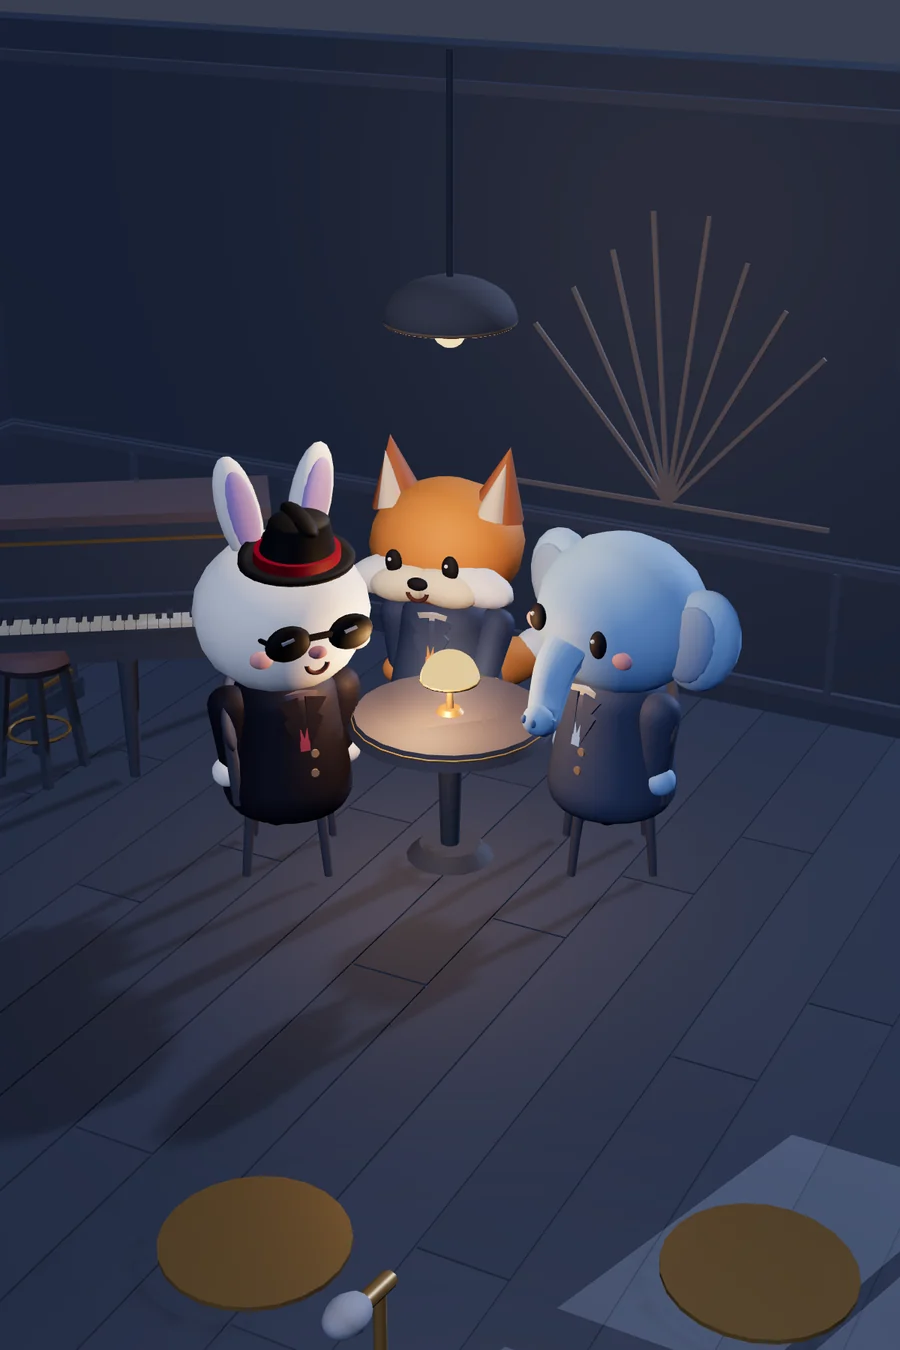
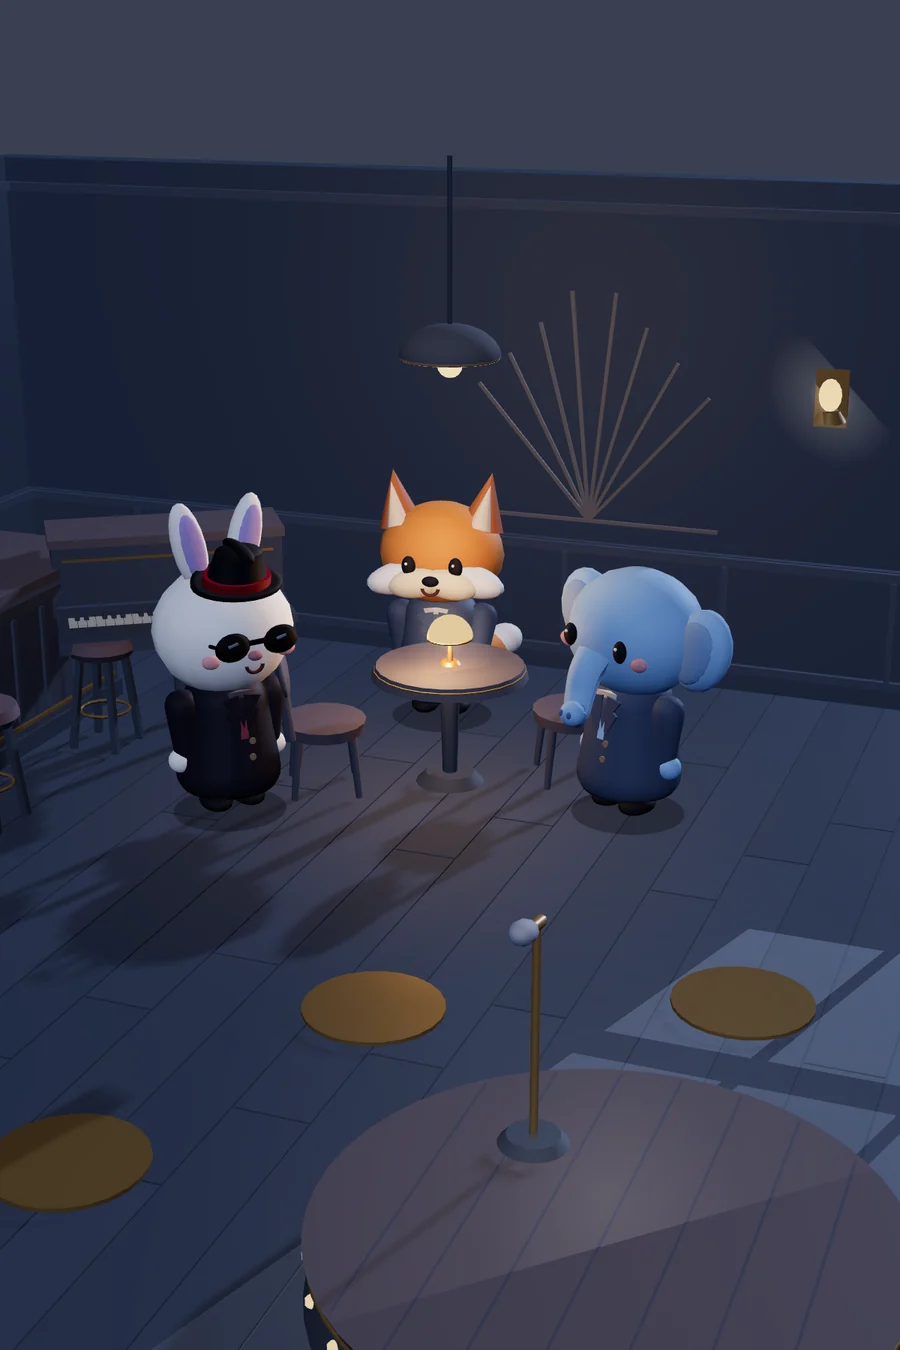
fix: 홈의 동물 배치와 제목 조판 개선

diff --git a/test/unit/assets.test.ts b/test/unit/assets.test.ts
@@ -13,6 +13,7 @@ import { preload } from "react-dom";
 import {
   FIGURE_IDS,
   ASSET_VERSION,
+  ENTRY_ART_VERSION,
   backdropUrl,
   duskPreloadList,
   entryPreloadList,
@@ -119,7 +120,7 @@ describe("그림 URL 헬퍼", () => {
     expect(backdropUrl("game", "day")).toBe(`/backgrounds/bg_game_day.webp?v=${ASSET_VERSION}`);
     expect(backdropUrl("game", "night")).toBe(`/backgrounds/bg_game_night.webp?v=${ASSET_VERSION}`);
     expect(backdropUrl("game", "verdictDusk")).toBe(`/backgrounds/bg_game_verdict_dusk.webp?v=${ASSET_VERSION}`);
-    expect(backdropUrl("entry", "lobby")).toBe(`/backgrounds/noir-entry.webp?v=${ASSET_VERSION}`);
+    expect(backdropUrl("entry", "lobby")).toBe(`/backgrounds/noir-entry.webp?v=${ENTRY_ART_VERSION}`);
   });
 
   it("배경: entry 구도는 lobby 장면만 받는다 (타입)", () => {
@@ -189,7 +190,7 @@ describe("일지 색 토큰 (UI-SPEC 새 토큰 12개)", () => {
 describe("미리 받기 목록", () => {
   it("입장 화면 목록: 입장·대기실 배경(WebP)", () => {
     const hrefs = entryPreloadList().map((item) => item.href);
-    expect(hrefs).toContain(`/backgrounds/noir-entry.webp?v=${ASSET_VERSION}`);
+    expect(hrefs).toContain(`/backgrounds/noir-entry.webp?v=${ENTRY_ART_VERSION}`);
     expect(hrefs).toContain(`/backgrounds/bg_game_lobby.webp?v=${ASSET_VERSION}`);
     expect(hrefs.some((h) => h.endsWith(".svg"))).toBe(false);
     expect(hrefs).toHaveLength(2);
@@ -304,9 +305,10 @@ describe("실제 파일과의 일치", () => {
   it("홈 아이콘과 공유 그림도 최신 그림 캐시 버전을 쓴다", () => {
     expect(ASSET_VERSION).not.toBe("noir-2");
     const html = readFileSync("index.html", "utf8");
-    for (const icon of ["favicon.svg", "favicon-32.png", "apple-touch-icon.png", "og.png"]) {
+    for (const icon of ["favicon.svg", "favicon-32.png", "apple-touch-icon.png"]) {
       expect(html).toContain(`/${icon}?v=${ASSET_VERSION}`);
     }
+    expect(html).toContain(`/og.png?v=${ENTRY_ART_VERSION}`);
   });
 
   it("어떤 URL 에도 @ 문자가 없다", () => {

diff --git a/src/styles/entry.css b/src/styles/entry.css
@@ -1,5 +1,13 @@
 /* 입장 무대는 제목과 입력 사이를 비워 테이블을 보여 준다.
    키보드를 열면 입력 패널만 보이는 높이에 맞춰 올라온다. */
+@font-face {
+  font-family: "Minifia Title";
+  src: url("/fonts/noto-serif-kr-home/minifia-title.woff2") format("woff2");
+  font-style: normal;
+  font-weight: 900;
+  font-display: swap;
+  unicode-range: U+B2C8, U+BBF8, U+C544, U+D53C;
+}
 .mf-entry-scene .mf-backdrop__art::after {
   content: "";
   position: absolute;
@@ -28,7 +36,32 @@
   text-shadow: 0 2px 16px rgb(4 10 19 / 50%);
 }
 .mf-entry-scene .mf-entry__head .mf-t-display::after { content: none; }
-.mf-entry-scene .mf-home .mf-t-display { font-size: clamp(48px, 14vw, 68px); }
+.mf-entry-scene .mf-home .mf-entry__head { gap: 6px; }
+.mf-entry-scene .mf-entry__head .mf-home__title {
+  font-family: "Minifia Title", var(--font-serif);
+  font-size: clamp(50px, 15vw, 72px);
+  font-weight: 900;
+  line-height: 1.08;
+  letter-spacing: -.045em;
+  text-shadow: 0 2px 0 rgb(4 10 19 / 70%), 0 6px 18px rgb(4 10 19 / 48%);
+}
+.mf-home__flourish {
+  position: relative;
+  width: 40px;
+  height: 6px;
+  color: var(--brass-200);
+  background: linear-gradient(90deg, currentColor, transparent 96%) center / 100% 1px no-repeat;
+}
+.mf-home__flourish::after {
+  content: "";
+  position: absolute;
+  top: 1px;
+  left: 33px;
+  width: 4px;
+  height: 4px;
+  background: currentColor;
+  transform: rotate(45deg);
+}
 .mf-entry__subtitle {
   margin: 0;
   font-size: 16px;

diff --git a/src/net/assets.ts b/src/net/assets.ts
@@ -30,6 +30,8 @@ export type PreloadItem = { href: string; imageSrcSet?: string };
  * (정적 그림 캐시가 max-age 1일이라 같은 주소는 하루 동안 옛 그림이 나온다). 그림을 바꾸면 값을 바꾼다.
  */
 export const ASSET_VERSION = "noir-11";
+/** 입장 배경은 캐릭터·맵 그림과 별도로 갱신한다. */
+export const ENTRY_ART_VERSION = "home-seats-1";
 
 // 파일 이름의 @ 는 URL 에서 %40 으로 쓴다.
 function png(dir: "table" | "roles" | "ghost", id: string, scale: 2 | 4): string {
@@ -121,7 +123,7 @@ export function journalArt(role: JournalRole, slot: JournalSlot): { src: string;
 export function backdropUrl(layout: "entry", scene: EntryScene): string;
 export function backdropUrl(layout: "game", scene: SceneId): string;
 export function backdropUrl(layout: BackdropLayout, scene: SceneId): string {
-  if (layout === "entry") return `/backgrounds/noir-entry.webp?v=${ASSET_VERSION}`;
+  if (layout === "entry") return `/backgrounds/noir-entry.webp?v=${ENTRY_ART_VERSION}`;
   return `/backgrounds/bg_${layout}_${SCENES[scene].file}.webp?v=${ASSET_VERSION}`;
 }
 

diff --git a/index.html b/index.html
@@ -12,7 +12,7 @@
     <meta property="og:title" content="미니피아" />
     <meta property="og:description" content="우리 중 누가 마피아일까? 친구들과 함께하는 추리 게임." />
     <meta property="og:type" content="website" />
-    <meta property="og:image" content="https://minifia-v3.dhplay.workers.dev/og.png?v=noir-11" />
+    <meta property="og:image" content="https://minifia-v3.dhplay.workers.dev/og.png?v=home-seats-1" />
     <meta property="og:image:width" content="1200" />
     <meta property="og:image:height" content="630" />
     <link rel="preconnect" href="https://fonts.googleapis.com" />

diff --git a/src/screens/Home.tsx b/src/screens/Home.tsx
@@ -145,7 +145,8 @@ export function Home({ onEnterRoom }: HomeProps) {
     <Backdrop layout="entry" scene="lobby">
       <main className="mf-root mf-entry mf-home" style={{ "--entry-height": `${viewportHeight}px` } as CSSProperties}>
         <header className="mf-entry__head">
-          <h1 className="mf-t-display">미니피아</h1>
+          <h1 className="mf-t-display mf-home__title">미니피아</h1>
+          <span className="mf-home__flourish" aria-hidden="true" />
           <p className="mf-entry__subtitle">우리 중 누가 마피아일까?</p>
         </header>
         <div className="mf-entry__actions">

diff --git a/docs/decisions/0100-home-art-and-discussion-controls.md b/docs/decisions/0100-home-art-and-discussion-controls.md
@@ -2,6 +2,8 @@
 
 첫 화면에서 본 인물을 대기실에서도 알아볼 수 있게 홈 배경에 실제 좌석 모델 세 명과 재즈 바를 사용한다. 카메라와 조명은 홈의 제목과 하단 입력 영역에 맞춰 배치한다. 렌더링은 그림을 만들 때 한 번 실행하고, 홈과 초대장은 정적 이미지를 읽는다.
 
+토끼와 코끼리는 테이블 옆 의자 바깥에 서서 발과 좌판의 윤곽이 따로 보인다. 홈 제목은 자체 호스팅한 명조 웹폰트로 조판하고, 제목과 부제 사이에 재즈 바 벽 장식을 닮은 얇은 황동색 선을 둔다. 홈과 초대 미리보기의 새 이미지는 별도 캐시 버전으로 읽는다.
+
 홈 테이블 왼쪽의 도윤과 마피아 의상 미리보기, 역할 카드에는 선글라스와 빨간 띠 중절모를 쓴 같은 인물을 사용한다. 어느 좌석에서 마피아 의상을 골라도 이 인물이 된다. 역할을 확인한 마피아는 자기 화면에서도 이 모습으로 플레이한다. 다른 참가자의 화면에는 각자가 고른 공개 의상만 보이고, 판이 끝나면 살아남은 마피아의 직업 의상을 모두에게 보여 준다.
 
 대기실 하단은 모든 참가자가 같은 위치에서 읽고 입력하는 채팅 전용 영역이다. 방장만 쓰는 시작 버튼은 채팅 위에 따로 배치한다. 참가자에게 별도 행동이 없는 대기 상태는 ‘대기실’ 제목으로 전달한다. [마피아 모델과 방장·참가자의 대기실 비교](../../design/v3.0/redesign/mafia-lobby.webp)

diff --git a/design/fonts/README.md b/design/fonts/README.md
@@ -1,4 +1,5 @@
 # 폰트
 
 - v3의 화면과 조작부는 기기의 시스템 산세리프를 쓴다. 종이 카드 등 인쇄물 표현에는 Gowun Batang을 사용한다.
+- 홈 제목은 [Noto Serif KR](https://fonts.google.com/noto/specimen/Noto+Serif+KR) 900의 ‘미니피아’ 부분 폰트를 자체 호스팅한다. [라이선스](../../public/fonts/noto-serif-kr-home/OFL.txt)는 폰트와 함께 둔다.
 - 이전 버전 공유 이미지용 부분 폰트 `GowunDodum-og-subset.ttf`의 라이선스는 `OFL-GowunDodum.txt`에 있다. 현재 초대 이미지 생성기는 홈 배경을 가로로 자른다.
